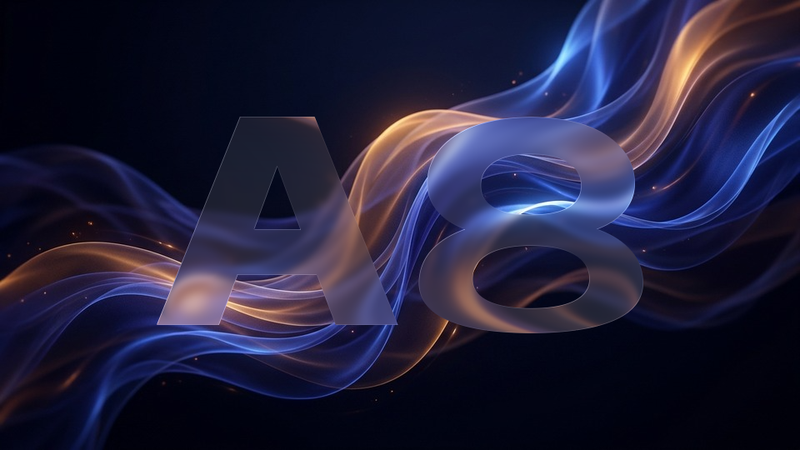
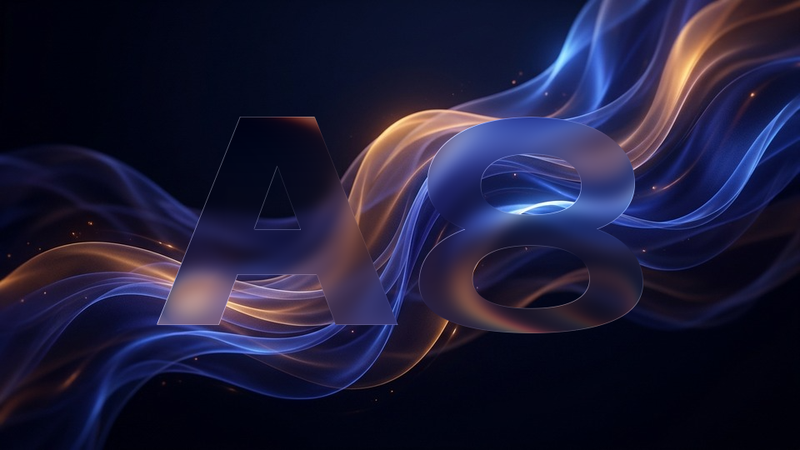
docs: update sample parameters and latest gallery assets with working preview

diff --git a/README.md b/README.md
@@ -1,4 +1,4 @@
-# Liquid-Glass-Flash
+# Liquid-Glass-Flash
 
 **Real-time 60/120 FPS Liquid Glass for Web & React — Zero Dependencies**
 
@@ -84,8 +84,9 @@ export function App() {
           rect={[160, 100, 640, 340]}
           profile="plate"
           preset="regular"
-          frost={12}
-          tint="#FFFFFF/12"
+          dispersion={100}
+          frost={18}
+          lightIntensity={100}
         />
       </GlassScene>
     </>
@@ -184,8 +185,9 @@ export function App() {
           rect={[160, 100, 640, 340]}
           profile="plate"
           preset="regular"
-          frost={12}
-          tint="#FFFFFF/12"
+          dispersion={100}
+          frost={18}
+          lightIntensity={100}
         />
       </GlassScene>
     </>
